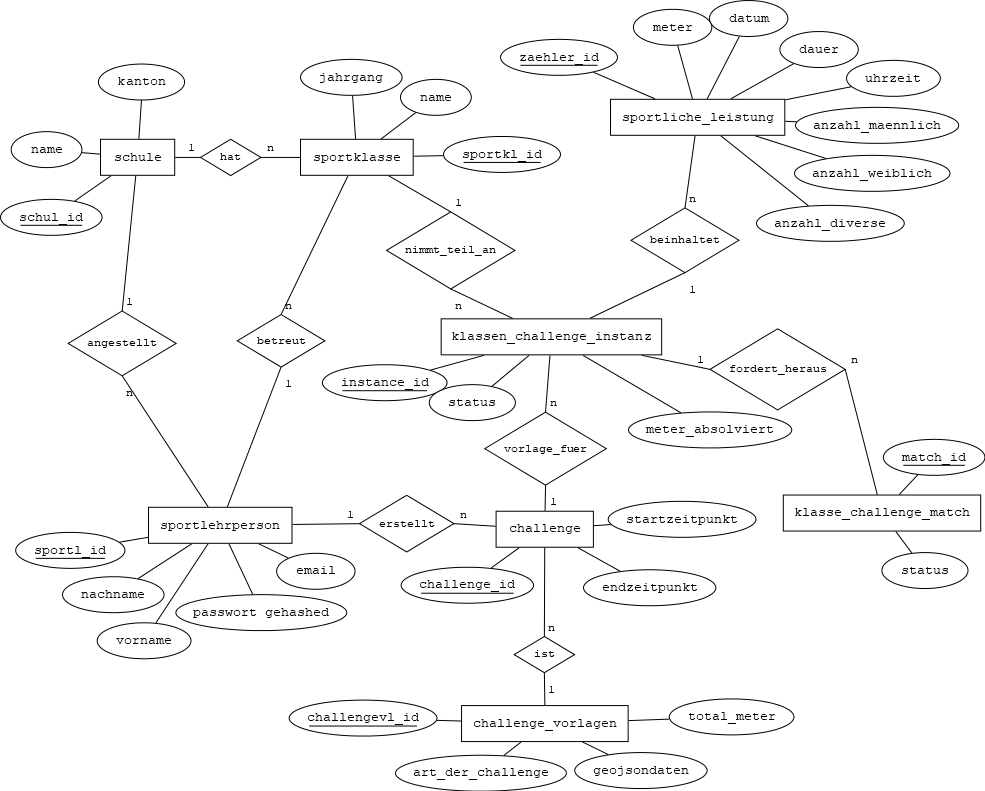
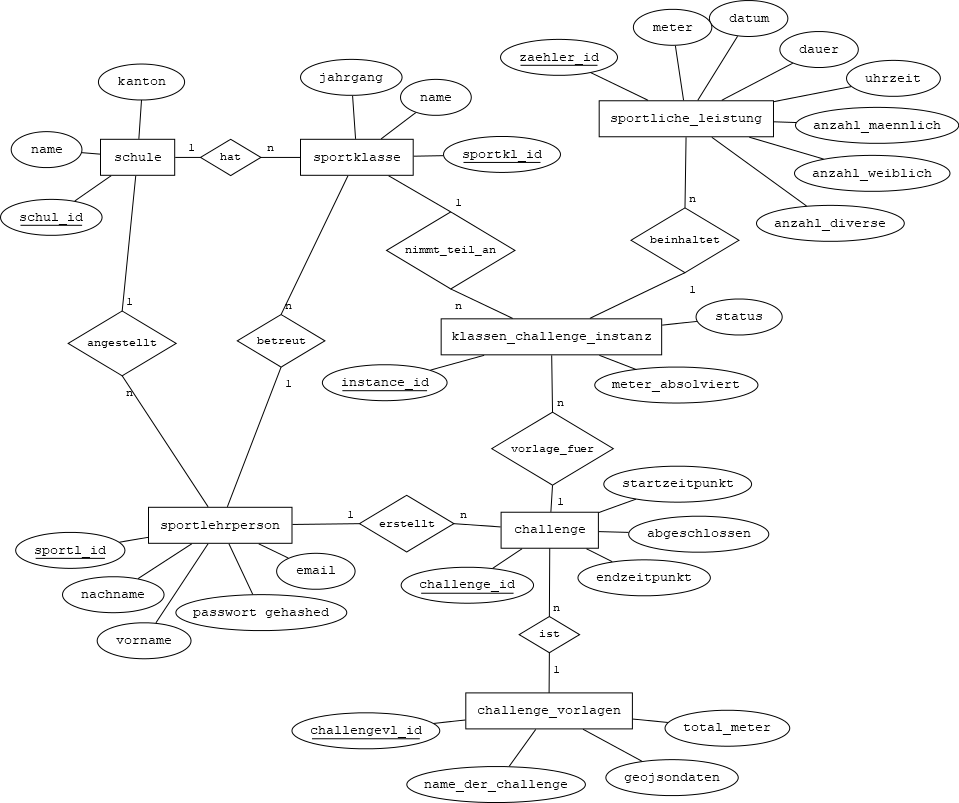
er dia update

diff --git a/project-folder/backend/controllers/challengeController.js b/project-folder/backend/controllers/challengeController.js
@@ -13,6 +13,7 @@
 */
 const pool = require("../db/connect");
 const queries = require("../db/queries");
+
 // Zeige alle Herausforderungen an
 const getAllChallenges = async (req, res) => {
   const sportlId = req.user ? req.user.sportl_id : null;
@@ -29,6 +30,7 @@ const getAllChallenges = async (req, res) => {
     res.status(500).json({ message: "Interner Serverfehler" });
   }
 };
+
 // Zeige eine einzelne Herausforderung an
 const getSingleChallenge = async (req, res) => {
   const { challenge_id } = req.params;
@@ -43,11 +45,12 @@ const getSingleChallenge = async (req, res) => {
     res.status(500).json({ message: "Interner Serverfehler" });
   }
 };
+
 // Erstelle eine neue Herausforderung
 const createChallenge = async (req, res) => {
-  const { challengevl_id, startzeitpunkt, sportkl_id, gegner_sportkl_id } =
-    req.body;
+  const { challengevl_id, startzeitpunkt, sportkl_id } = req.body;
   const { sportl_id } = req.user;
+  const abgeschlossen = false;
 
   try {
     await pool.query("BEGIN");
@@ -55,15 +58,17 @@ const createChallenge = async (req, res) => {
       challengevl_id,
       sportl_id,
       startzeitpunkt,
+      abgeschlossen,
     ]);
-
-    const challenge_id = newChallenge.rows[0].challenge_id;
-
-    await pool.query(queries.addChallengeEnemy, [
-      sportkl_id,
-      challenge_id,
-      gegner_sportkl_id || null,
-    ]);
+    if (sportkl_id) {
+      const challengeId = newChallenge.rows[0].challenge_id;
+      await pool.query(queries.createInstanceOfChallenge, [
+        0, // Meter absolviert
+        "in_progress", // Status
+        sportkl_id,
+        challengeId,
+      ]);
+    }
     await pool.query("COMMIT");
     res.status(201).json(newChallenge.rows[0]);
   } catch (error) {
@@ -72,17 +77,17 @@ const createChallenge = async (req, res) => {
     res.status(500).json({ message: "Interner Serverfehler" });
   }
 };
+
+// Erstelle eine Instanz einer Herausforderung die bereits existiert
 const create_instance_of_challenge = async (req, res) => {
   const { meter_absolviert, status, sportkl_id, challenge_id } = req.body;
 
   try {
-    // Start der Transaktion
     await pool.query("BEGIN");
     const challengeQuery = await pool.query(queries.challengeQuery, [
       challenge_id,
     ]);
 
-    // Überprüfen, ob die Challenge existiert
     if (challengeQuery.rows.length === 0) {
       await pool.query("ROLLBACK");
       return res.status(404).json({ message: "Challenge nicht gefunden" });
@@ -90,7 +95,6 @@ const create_instance_of_challenge = async (req, res) => {
 
     const { endzeitpunkt, abgeschlossen } = challengeQuery.rows[0];
 
-    // Überprüfen, ob die Challenge abgeschlossen ist
     if (abgeschlossen) {
       await pool.query("ROLLBACK");
       return res
@@ -98,7 +102,6 @@ const create_instance_of_challenge = async (req, res) => {
         .json({ message: "Herausforderung bereits abgeschlossen" });
     }
 
-    // Überprüfen, ob die Challenge bereits abgelaufen ist
     if (endzeitpunkt && new Date(endzeitpunkt) < new Date()) {
       await pool.query("ROLLBACK");
       return res
@@ -121,7 +124,7 @@ const create_instance_of_challenge = async (req, res) => {
   }
 };
 
-// Füge eine Aktivität zu einer Herausforderung hinzu
+// Füge eine Aktivität zu einer Herausforderungsinstance hinzu
 const addActivityToChallengeInstance = async (req, res) => {
   const {
     meter,
@@ -131,10 +134,11 @@ const addActivityToChallengeInstance = async (req, res) => {
     anzahl_m,
     anzahl_w,
     anzahl_d,
-    challenge_id,
+    instance_id,
   } = req.body;
 
   try {
+    await pool.query("BEGIN");
     await pool.query(queries.addActivity, [
       meter,
       uhrzeit,
@@ -143,13 +147,15 @@ const addActivityToChallengeInstance = async (req, res) => {
       anzahl_m || 0,
       anzahl_w || 0,
       anzahl_d || 0,
-      challenge_id,
+      instance_id,
     ]);
-    await pool.query(queries.updateChallenge, [meter, challenge_id]);
+    await pool.query(queries.updateChallengeInstance, [meter, instance_id]);
+    await pool.query("COMMIT");
     res
       .status(201)
       .json({ message: "Aktivität hinzugefügt und Challenge aktualisiert" });
   } catch (error) {
+    await pool.query("ROLLBACK");
     console.error(
       "Fehler beim Hinzufügen der Aktivität oder Challenge:",
       error.message

diff --git a/project-folder/backend/db/queries.js b/project-folder/backend/db/queries.js
@@ -24,8 +24,8 @@ const addActivity =
   "INSERT INTO sportlicheleistung (meter, uhrzeit, datum, dauer, anzahl_m, anzahl_w, anzahl_d, challenge_id) VALUES ($1, $2, $3, $4, $5, $6, $7, $8)RETURNING *";
 // const addChallengeEnemy =
 //   "INSERT INTO nimmtteilan (sportkl_id, challenge_id, gegner_sportkl_id) VALUES ($1, $2, $3)";
-const updateChallenge =
-  "UPDATE challenge SET meters_completed = meters_completed + $1 WHERE challenge_id = $2";
+const updateChallengeInstance =
+  "UPDATE challenge_instance SET meters_absolviert = meter_absolviert + $1 WHERE instance_id = $2";
 const deleteChallenge = "DELETE FROM challenge WHERE challenge_id = $1";
 
 module.exports = {
@@ -40,7 +40,7 @@ module.exports = {
   addActivity,
   addChallengeEnemy,
   createChallenge,
-  updateChallenge,
+  updateChallengeInstance,
   deleteChallenge,
   create_instance_of_challenge,
   challengeQuery,
